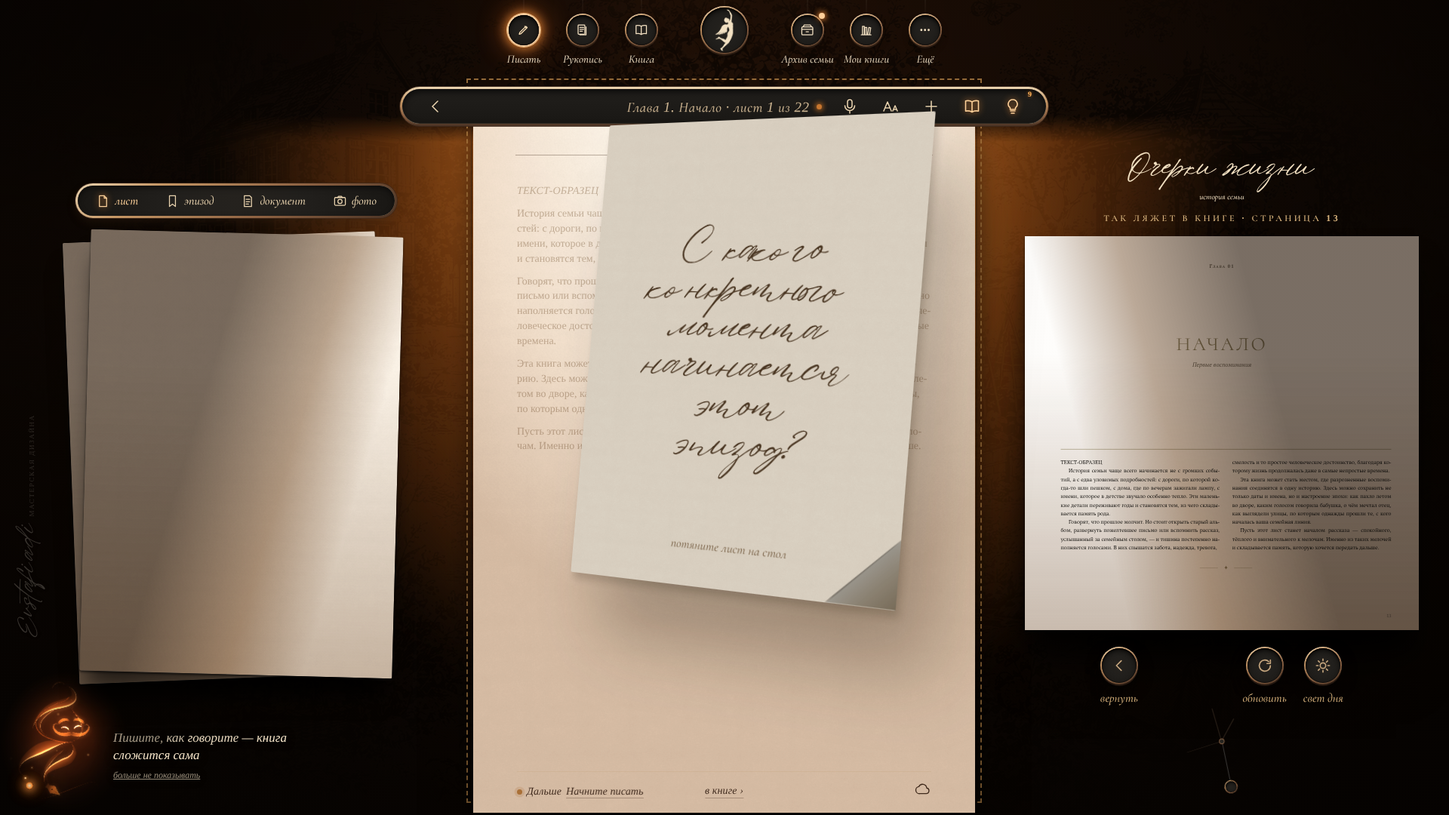
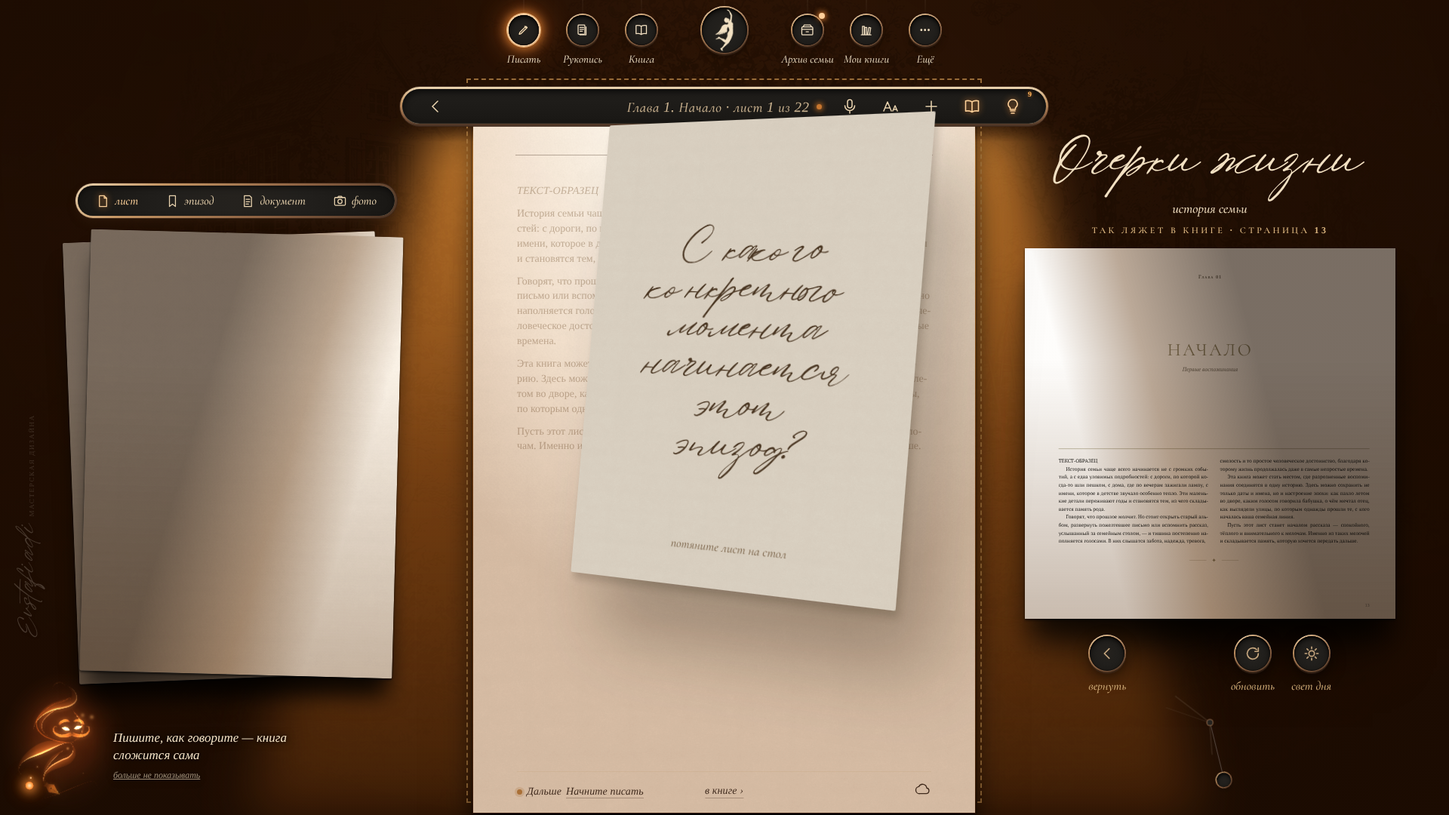
v202: уходя в книгу, стол сначала уезжает влево (а не исчезает), название книги крупное и стоит на месте, свет на книге по лучу, без уголка у листа в руке, следующий чистый лист сразу, тень окна на кладущемся листе, «Так ляжет» пересобирается в паузе
Claude-Session: https://claude.ai/code/session_01523ibQ4Bpb3TawEG9d2zYP

diff --git a/app/write/write.js b/app/write/write.js
@@ -91,7 +91,7 @@
     let H=base.height*.8,W=H*pw/ph;if(base.width+G+W>room){W=Math.max(0,room-base.width-G);H=W*ph/pw;}
     let d=(W+G)/2;
     // v119: the sheet stays where it is — the book's page comes out on its right.
-    if(shell.classList.contains('oc-w')){const r2=innerWidth-(base.left+base.width)-G-40;H=base.height*(window.__ocWsRoom?.()?.62:.8);W=H*pw/ph;if(W>r2){W=Math.max(0,r2);H=W*ph/pw;}d=0;}
+    if(shell.classList.contains('oc-w')){const r2=innerWidth-(base.left+base.width)-G-40;H=base.height*(window.__ocWsRoom?.()?.52:.8);W=H*pw/ph;if(W>r2){W=Math.max(0,r2);H=W*ph/pw;}d=0;}
     return {base,W,H,G,d,extra,ok:W>=260};}
   function place(){const g=geo();if(!g)return;const b=g.base,L=b.left-g.d+b.width+g.G;
     const css=on?`left:${L}px;top:${b.top+(b.height-g.H)/2-10}px;width:${g.W}px;height:${g.H}px`:`left:${b.left+b.width+g.extra-g.W*.7}px;top:${b.top+(b.height-g.H)/2-10}px;width:${g.W}px;height:${g.H}px`;
@@ -114,6 +114,11 @@
     if(res){host.innerHTML=res.html;shown=res.spread;pane.querySelector('.wp-cap').textContent=`так ляжет в книге${res.pageNo?' · страница '+res.pageNo:''}`;}
     else{host.innerHTML='<div class="wp-none">Этот раздел появится в книге,<br>когда в нём будет текст или фото</div>';pane.querySelector('.wp-cap').textContent='так ляжет в книге';}
     place();window.__ocherkiScalePages?.();ref.classList.remove('is-stale');stale=false;}
+  // v202: the book's page is laid out again only once the hands rest a moment (a layout in the middle of taking the next sheet
+  // made the desk stall); the picture of the old page stays meanwhile
+  let lastHand=0;['pointerdown','pointermove','keydown'].forEach(t=>addEventListener(t,()=>{lastHand=performance.now();},{passive:true,capture:true}));
+  const quietRefresh=()=>{const q=performance.now()-lastHand;if(q<1100){clearTimeout(tAuto);tAuto=setTimeout(quietRefresh,1150-q);return;}
+    (window.requestIdleCallback||(f=>setTimeout(f,0)))(()=>refresh(false),{timeout:900});};
   function refresh(first){if(!on||busy)return;busy=true;pane.classList.add('is-busy');ref.classList.remove('is-stale');stale=false;
     ref.classList.remove('is-spin');void ref.offsetWidth;ref.classList.add('is-spin');clearTimeout(refresh.s);refresh.s=setTimeout(()=>ref.classList.remove('is-spin'),950);
     setTimeout(()=>{paint();requestAnimationFrame(()=>window.__ocherkiScalePages?.());
@@ -122,11 +127,12 @@
   ref.querySelector('button').addEventListener('click',()=>{pick=null;refresh(false);});
   pg.addEventListener('click',e=>{const b=e.target.closest('[data-pg]');if(!b||b.disabled)return;pick=Math.max(0,Math.min(count-1,(pick||0)+(+b.dataset.pg)));refresh(false);});
   addEventListener('message',e=>{const d=e.data||{};
-    if(d.type==='OCHERKI_ACTIVE_STATE'&&d.payload?.pageUid){const u=d.payload.pageUid;if(u!==uid){uid=u;pick=null;if(on){clearTimeout(tAuto);tAuto=setTimeout(()=>refresh(false),450);}}}
+    if(d.type==='OCHERKI_ACTIVE_STATE'&&d.payload?.pageUid){const u=d.payload.pageUid;if(u!==uid){uid=u;pick=null;if(on){clearTimeout(tAuto);tAuto=setTimeout(quietRefresh,450);}}}
     else if(d.type==='OCHERKI_STRUCTURE_STATE'){let a='';(d.payload?.sections||[]).forEach(s=>(s.pages||[]).forEach(p=>{if(p.active)a=p.uid||p.id||'';}));
-      if(a&&a!==uid){uid=a;pick=null;if(on){clearTimeout(tAuto);tAuto=setTimeout(()=>refresh(false),450);}}
+      if(a&&a!==uid){uid=a;pick=null;if(on){clearTimeout(tAuto);tAuto=setTimeout(quietRefresh,450);}}
       else if(on&&!busy){stale=true;ref.classList.add('is-stale');}}});
   const sync=()=>{const ok=usable();shell.classList.toggle('wp-ready',ok);
+    // v202: leaving for the book the page, its keys, the book's name and the clock slide off to the left with the sheets
     if(!ok&&on){on=false;const w=wrap();if(w){w.style.setProperty('transition','none','important');w.style.translate='';void w.offsetWidth;requestAnimationFrame(()=>requestAnimationFrame(()=>w.style.removeProperty('transition')));}
       shell.classList.remove('wp-on','wp-up','wp-closing');}
     if(ok)place();};
@@ -134,6 +140,17 @@
   const modal=document.getElementById('bookPreviewModal');if(modal)new MutationObserver(sync).observe(modal,{attributes:true,attributeFilter:['class']});
   addEventListener('resize',()=>{if(on){const w=wrap(),g=geo();if(w&&g)w.style.translate=`${-g.d}px 0`;}place();requestAnimationFrame(()=>window.__ocherkiScalePages?.());});
   [1200,2600,4500].forEach(t=>setTimeout(sync,t));
+  // v202: leaving for the book the page, its keys, the book's name and the clock slide off to the left with the sheets
+  // The book is laid out in one go and holds the page for about a second: were it started at once, the move had no frames and
+  // everything seemed to vanish. So the desk is cleared first — the sheets, the page, its keys go off to the left — and only
+  // then the book is opened and slides in.
+  let leaving=false;
+  document.addEventListener('click',e=>{const k=e.target.closest?.('.oct .k[data-k="book"]');if(!k||k.__go||leaving||!shell.classList.contains('oc-ws'))return;
+    e.stopImmediatePropagation();e.preventDefault();leaving=true;
+    {const l=document.querySelector('.ws-left');if(l){l.style.animation='none';void l.offsetWidth;}}// its entrance holds no transform any more: the move starts from where it lies
+    shell.classList.add('ws-leaving','ws-off');
+    setTimeout(()=>{k.__go=true;k.click();k.__go=false;},1000);
+    setTimeout(()=>{shell.classList.remove('ws-leaving','ws-off');leaving=false;const l=document.querySelector('.ws-left');if(l)l.style.animation='';},2600);},true);
   // v195: the desk of three sheets reaches the page from outside
   window.__ocWp={open:()=>{if(!on)setOpen(true);},isOn:()=>on,geo,place,pane,keys2,usable};
 })();
@@ -209,10 +226,11 @@
       const bg=`linear-gradient(${(A*180/Math.PI).toFixed(1)}deg,rgba(240,225,200,.08) ${(t-4).toFixed(1)}%,rgba(120,84,50,.5) ${(t+14).toFixed(1)}%,rgba(46,28,12,.64) ${(t+38).toFixed(1)}%),linear-gradient(180deg,transparent 30%,rgba(110,76,46,.4) 100%)`;if(lm._bg!==bg){lm._bg=bg;lm.style.background=bg;}}}
     // v199: the book on the desk is lit by the same beam — its middle under the bar bright, both its sides beyond the beam's edges dusky
     const bq=document.querySelector('.bq-book'),bl=bq?.querySelector('.bq-lamp');
-    if(bl&&night&&bk){const q=bq.getBoundingClientRect();if(q.width){const edge=(ex,dxs)=>{let dx=dxs,dy=H*1.04-y;const l=Math.hypot(dx,dy);dx/=l;dy/=l;const nx=dxs>0?dy:-dy,ny=dxs>0?-dx:dx,A=Math.atan2(nx,-ny),
+    if(bl&&night&&bk&&!bq.classList.contains('is-curling')){const q=bq.getBoundingClientRect();if(q.width){const edge=(ex,dxs)=>{let dx=dxs,dy=H*1.04-y;const l=Math.hypot(dx,dy);dx/=l;dy/=l;const nx=dxs>0?dy:-dy,ny=dxs>0?-dx:dx,A=Math.atan2(nx,-ny),
           L=Math.abs(q.width*Math.sin(A))+Math.abs(q.height*Math.cos(A)),t=50+((ex-(q.left+q.width/2))*nx+(y-(q.top+q.height/2))*ny)/L*100;
           return `linear-gradient(${(A*180/Math.PI).toFixed(1)}deg,rgba(0,0,0,0) ${(t-6).toFixed(1)}%,rgba(110,76,44,.55) ${(t+8).toFixed(1)}%,rgba(40,24,10,.72) ${(t+26).toFixed(1)}%)`;};
-        const bg='radial-gradient(ellipse 62% 92% at 50% 0%,rgba(255,250,242,0) 0%,rgba(244,222,196,.16) 34%,rgba(222,186,152,.36) 68%,rgba(186,148,116,.56) 100%)';void edge;if(bl._bg!==bg){bl._bg=bg;bl.style.background=bg;}}}
+        const bg=edge(x1,sp)+','+edge(x0,-sp)+',radial-gradient(ellipse 62% 92% at 50% 0%,rgba(255,250,242,0) 0%,rgba(244,222,196,.12) 40%,rgba(210,172,138,.34) 100%)';// the book lit by the beam itself: the sides beyond its diagonal edges in the dusk, the foot a little dimmer
+       if(bl._bg!==bg){bl._bg=bg;bl.style.background=bg;}}}
     // v197: the clean stack on the left is lit the same way — only where the beam falls, its left edge running from the bar's
     // other end down and out (the same light as on the book's page, mirrored)
     const wl=document.querySelector('.ws-left');
@@ -505,8 +523,12 @@
     const lay=d.over||!d.moved;// a plain click lays it too: one press is enough for a hand that does not like to drag
     if(lay){const w=wrapEl().getBoundingClientRect();fl.classList.remove('ws-lift','ws-carry');fl.classList.add('ws-landing');fl.style.transformOrigin='0 0';
       // it is laid down: it flattens as it comes to rest, its corner settles, the shadow draws in — then it is the sheet itself
+      // v202: as it comes down the window's shade falls on it where it falls on the desk (no later jump when the sheet itself shows)
+      if(!shell.classList.contains('is-night')){const sx=w.width/d.r.width,sy=w.height/d.r.height,sh=document.createElement('i');sh.className='ws-land-shade';
+        Object.assign(sh.style,{left:(-w.left/sx)+'px',top:(-w.top/sy)+'px',width:(innerWidth/sx)+'px',height:(innerHeight/sy)+'px'});fl.style.overflow='hidden';fl.appendChild(sh);requestAnimationFrame(()=>sh.classList.add('on'));}
       fl.style.transform=`translate(${w.left-d.r.left}px,${w.top-d.r.top}px) perspective(1600px) rotateX(0deg) scale(${w.width/d.r.width},${w.height/d.r.height})`;fl.style.opacity='0';
-      setTimeout(()=>act(kind),260);setTimeout(()=>{fl.remove();top.classList.remove('ws-away');top.classList.add('ws-next');setTimeout(()=>top.classList.remove('ws-next'),700);},620);}
+      top.classList.remove('ws-away');top.classList.add('ws-next');setTimeout(()=>top.classList.remove('ws-next'),700);// the next clean sheet lies there at once
+      setTimeout(()=>act(kind),260);setTimeout(()=>fl.remove(),700);}
     else{fl.classList.add('ws-back');fl.style.transform='none';setTimeout(()=>{fl.remove();top.classList.remove('ws-away');},420);}};
   top.addEventListener('pointerup',finish);top.addEventListener('pointercancel',finish);
 
@@ -530,14 +552,12 @@
     Object.assign(left.style,{left:b.left+'px',top:b.top+'px',width:b.w+'px',height:b.h+'px'});left.style.setProperty('--ws-w',b.w+'px');document.documentElement.style.setProperty('--ws-bx',Math.round(b.left+b.w/2)+'px');document.documentElement.style.setProperty('--ws-by',Math.round(b.top+b.h+Math.max(26,b.h*.06))+'px');
     // the book's name above the page, the clock below its keys — the signature stays where it always is
     const t=ttl(),c=clock();
-    if(peek&&pg&&pg.width&&t){const tr={width:t.offsetWidth,height:t.offsetHeight};const bx=t.offsetLeft,by=t.offsetTop;// its place in the layout (no translate, no scale)
-      const cap=document.querySelector('.wp-cap')?.getBoundingClientRect();const capTop=cap&&cap.height?cap.top:pg.top-34;
-      // it fits between the bar and the page's caption: a little smaller when the room is short
-      const bar=document.querySelector('.wc.on')?.getBoundingClientRect();const top0=(bar?bar.bottom:0)+34;const room=capTop-10-top0;
-      // its «left» is its centre (translateX -50%); scaled about its centre's foot it keeps the centre and the foot in place
-      const ok=parseFloat(getComputedStyle(document.documentElement).getPropertyValue('--oc-k'))||1;const h0=t.offsetHeight*ok;
-      const k=Math.max(.55,Math.min(1,room/h0));t.style.scale=(ok*k).toFixed(3);t.style.transformOrigin='0 100%';
-      t.style.translate=`${Math.round(pg.left+pg.width/2-bx)}px ${Math.round(capTop-10-(by+t.offsetHeight))}px`;}
+    if(peek&&W.pane.style.width&&t){const bx=t.offsetLeft,by=t.offsetTop;// its place in the layout (no translate, no scale)
+      // v202: the book's name stands still, high under the bar, over where the page comes to rest (not riding on the page as it
+      // slides out), and in its full size
+      const px=parseFloat(W.pane.style.left)+parseFloat(W.pane.style.width)/2;const bar=document.querySelector('.wc.on')?.getBoundingClientRect();
+      const ok=parseFloat(getComputedStyle(document.documentElement).getPropertyValue("--oc-k"))||1;t.style.scale=ok.toFixed(3);t.style.transformOrigin="0 0";
+      t.style.translate=`${Math.round(px-bx)}px ${Math.round((bar?bar.bottom:150)+10-by)}px`;}
     else if(t){t.style.removeProperty('translate');t.style.removeProperty('scale');t.style.removeProperty('transform-origin');}
     if(peek&&c&&k2&&k2.height){const pv=c.querySelector('.clock-pivot');
       // measured, not reckoned: the clock is set to its new size with no move, the pivot is found, then moved by the difference

diff --git a/shell.html b/shell.html
@@ -4,16 +4,16 @@
 <meta charset="utf-8"/>
 <meta name="viewport" content="width=device-width, initial-scale=1, viewport-fit=cover"/>
 <title>Очерки жизни — unified shell + paper keyboard</title>
-<link rel="stylesheet" href="app/common/001-base.css?v=20261107-v201" data-inline-from="style">
+<link rel="stylesheet" href="app/common/001-base.css?v=20261107-v202" data-inline-from="style">
 
 
 
 
 
 
-<script src="app/common/021-calm-dom-v142.js?v=20261107-v201" data-inline-from="script"></script>
-<script src="app/start/022-v35-auth-gate-state.js?v=20261107-v201" data-inline-from="script"></script>
-<link rel="stylesheet" href="book-renderer/design-pack-01.css?v=demo-book-20261107-v201">
+<script src="app/common/021-calm-dom-v142.js?v=20261107-v202" data-inline-from="script"></script>
+<script src="app/start/022-v35-auth-gate-state.js?v=20261107-v202" data-inline-from="script"></script>
+<link rel="stylesheet" href="book-renderer/design-pack-01.css?v=demo-book-20261107-v202">
 </head>
 <body>
 <div class="shell is-night ui-boot" id="shell">
@@ -215,7 +215,7 @@
   <div class="editor-stage" id="editorStage" aria-label="Рабочая область">
     <div class="editor-paper-wrap" id="editorPaperWrap">
       <div class="editor-paper v35-host-paper">
-        <iframe id="v35SheetFrame" class="v35-sheet-frame" allow="microphone" src="sheet_v35.html?v=demo-book-20261107-v201" title="Редактор книги"></iframe>
+        <iframe id="v35SheetFrame" class="v35-sheet-frame" allow="microphone" src="sheet_v35.html?v=demo-book-20261107-v202" title="Редактор книги"></iframe>
       </div>
       <div class="editor-paper-shadow"></div>
     </div>
@@ -307,7 +307,7 @@
     </div>
   </div>
 </div>
-<script src="app/common/025-shell-core.js?v=20261107-v201" data-inline-from="script"></script>
+<script src="app/common/025-shell-core.js?v=20261107-v202" data-inline-from="script"></script>
 
 
 
@@ -324,15 +324,15 @@
 
 
 
-<script src="app/common/042-boot-and-map.js?v=20261107-v201" data-inline-from="script"></script>
+<script src="app/common/042-boot-and-map.js?v=20261107-v202" data-inline-from="script"></script>
 
 
-<script src="book-renderer/geo-cities.js?v=demo-book-20261107-v201"></script><script src="book-renderer/geo-atlas.js?v=demo-book-20261107-v201"></script><script src="book-renderer/design-pack-01.js?v=demo-book-20261107-v201"></script>
-<script src="book-renderer/book-engine.js?v=demo-book-20261107-v201"></script>
-<script src="book-renderer/project-store.js?v=demo-book-20261107-v201"></script>
-<script src="book-renderer/design-pack-01.layout.js?v=demo-book-20261107-v201"></script>
-<script src="book-renderer/layout-pagination-engine.js?v=demo-book-20261107-v201"></script>
-<script src="app/book/044-v103-book-assembly-controller.js?v=20261107-v201" data-inline-from="script"></script>
+<script src="book-renderer/geo-cities.js?v=demo-book-20261107-v202"></script><script src="book-renderer/geo-atlas.js?v=demo-book-20261107-v202"></script><script src="book-renderer/design-pack-01.js?v=demo-book-20261107-v202"></script>
+<script src="book-renderer/book-engine.js?v=demo-book-20261107-v202"></script>
+<script src="book-renderer/project-store.js?v=demo-book-20261107-v202"></script>
+<script src="book-renderer/design-pack-01.layout.js?v=demo-book-20261107-v202"></script>
+<script src="book-renderer/layout-pagination-engine.js?v=demo-book-20261107-v202"></script>
+<script src="app/book/044-v103-book-assembly-controller.js?v=20261107-v202" data-inline-from="script"></script>
 
 
 
@@ -384,7 +384,7 @@
 
 
 
-<script src="assets/archive/archive.js?v=20261107-v201"></script>
+<script src="assets/archive/archive.js?v=20261107-v202"></script>
 </body>
 
 
@@ -402,29 +402,29 @@
 
 
 
-<script src="app/common/common-early.js?v=20261107-v201"></script>
-<script src="app/manuscript/134-three-screens-script.js?v=20261107-v201" data-inline-from="script"></script>
-<script src="app/manuscript/manuscript.js?v=20261107-v201"></script>
+<script src="app/common/common-early.js?v=20261107-v202"></script>
+<script src="app/manuscript/134-three-screens-script.js?v=20261107-v202" data-inline-from="script"></script>
+<script src="app/manuscript/manuscript.js?v=20261107-v202"></script>
 
 
-<script src="app/topbar/keys.js?v=20261107-v201" data-inline-from="script"></script>
-<script src="app/book/book.js?v=20261107-v201"></script>
-<script src="app/write/write.js?v=20261107-v201"></script>
+<script src="app/topbar/keys.js?v=20261107-v202" data-inline-from="script"></script>
+<script src="app/book/book.js?v=20261107-v202"></script>
+<script src="app/write/write.js?v=20261107-v202"></script>
 
 
 
-<script src="app/common/common-late.js?v=20261107-v201"></script>
+<script src="app/common/common-late.js?v=20261107-v202"></script>
 
 
-<script src="assets/keeper/tour.js?v=20261107-v201"></script>
-<script src="app/start/start.js?v=20261107-v201"></script>
-<script src="app/topbar/topbar.js?v=20261107-v201"></script>
+<script src="assets/keeper/tour.js?v=20261107-v202"></script>
+<script src="app/start/start.js?v=20261107-v202"></script>
+<script src="app/topbar/topbar.js?v=20261107-v202"></script>
 
 
-<link rel="stylesheet" href="app/start/start.css?v=20261107-v201">
-<link rel="stylesheet" href="app/common/chrome.css?v=20261107-v201">
-<link rel="stylesheet" href="app/write/write.css?v=20261107-v201">
-<link rel="stylesheet" href="app/manuscript/manuscript.css?v=20261107-v201">
-<link rel="stylesheet" href="app/book/book.css?v=20261107-v201">
-<link rel="stylesheet" href="app/shelf/shelf.css?v=20261107-v201">
-<script src="app/shelf/shelf.js?v=20261107-v201"></script>
+<link rel="stylesheet" href="app/start/start.css?v=20261107-v202">
+<link rel="stylesheet" href="app/common/chrome.css?v=20261107-v202">
+<link rel="stylesheet" href="app/write/write.css?v=20261107-v202">
+<link rel="stylesheet" href="app/manuscript/manuscript.css?v=20261107-v202">
+<link rel="stylesheet" href="app/book/book.css?v=20261107-v202">
+<link rel="stylesheet" href="app/shelf/shelf.css?v=20261107-v202">
+<script src="app/shelf/shelf.js?v=20261107-v202"></script>

diff --git a/app/write/write.css b/app/write/write.css
@@ -801,12 +801,8 @@ html:has(.shell.is-night) .ws-left .ws-tabs button.on{color:#ffd29a}html:has(.sh
 .ws-flyer.ws-lift{transition:transform .28s cubic-bezier(.2,.8,.3,1),box-shadow .28s ease;box-shadow:2px 4px 6px rgba(40,25,10,.25),30px 40px 60px rgba(40,25,10,.32)!important}
 .ws-flyer.ws-carry{transition:transform .12s linear,box-shadow .3s ease;box-shadow:4px 8px 10px rgba(40,25,10,.18),46px 70px 90px rgba(40,25,10,.30)!important}
 .ws-flyer.ws-landing{transition:transform .62s cubic-bezier(.3,.7,.2,1),opacity .3s ease .38s,box-shadow .5s ease!important;box-shadow:1px 2px 3px rgba(40,25,10,.3),8px 12px 20px rgba(40,25,10,.22)!important}
-/* the corner the hand holds lifts a little */
-.ws-flyer::after{content:"";position:absolute;right:0;bottom:0;width:20%;height:14%;pointer-events:none;
-  background:linear-gradient(135deg,transparent 48%,rgba(80,55,30,.18) 50%,rgba(255,252,244,.95) 52%,rgba(232,218,196,1) 72%,rgba(200,180,150,1) 100%);
-  clip-path:polygon(100% 0,100% 100%,0 100%);filter:drop-shadow(-3px -3px 4px rgba(60,40,20,.25));transition:opacity .25s}
-.ws-flyer.ws-landing::after,.ws-flyer.ws-back::after{opacity:0}
-html:has(.shell.is-night) .ws-flyer::after{filter:drop-shadow(-3px -3px 4px rgba(0,0,0,.5)) brightness(.7)}
+/* v202: no turned-up corner on the sheet in the hand */
+.ws-flyer::after{content:none!important}
 html:has(.shell.is-night) .ws-flyer{filter:brightness(.82) sepia(.15)}
 .ws-flyer .ws-q{max-height:none!important;overflow:visible!important}
 .ws-flyer.ws-landing .ws-q,.ws-flyer.ws-landing .ws-hint{opacity:0!important;transition:opacity .18s ease!important}
@@ -872,3 +868,19 @@ html:has(#bookPreviewModal.is-closing) .bq-book{opacity:1!important}
 html body .desk-cone{filter:blur(34px)}
 html body .desk-cone i{background:linear-gradient(180deg,rgba(255,175,80,.95) 0%,rgba(250,150,55,.7) 22%,rgba(225,120,35,.42) 58%,rgba(180,90,20,.22) 100%)!important}
 html body .desk-shade{background:linear-gradient(rgba(60,26,4,.42),rgba(60,26,4,.42)),radial-gradient(ellipse 75% 95% at 50% 20%,rgba(10,5,2,0) 0%,rgba(10,5,2,.3) 55%,rgba(5,2,0,.8) 100%)}
+.ws-land-shade{position:absolute;z-index:6;pointer-events:none;background:var(--ws-shade) 0 0/100% 100% no-repeat;mix-blend-mode:multiply;opacity:0;transition:opacity .45s ease .1s}
+.ws-land-shade.on{opacity:1}
+.ws-flyer.ws-landing{transition:transform .62s cubic-bezier(.3,.7,.2,1),opacity .25s ease .55s,box-shadow .5s ease!important}
+/* v202 — leaving for «Книга»: what stood on the right of the desk slides away to the left with the sheets, nothing just vanishes */
+@keyframes wsLeave{from{translate:0 0;rotate:0deg;opacity:1}to{translate:-125vw 0;rotate:-2.5deg;opacity:1}}
+html body .shell.ws-leaving .wp-pane{opacity:1!important;transform:none!important;transition:none!important;animation:wsLeave 1.3s cubic-bezier(.62,.02,.32,1) both}
+html body .shell.ws-leaving .wp-keys.k-open,html body .shell.ws-leaving .bottom-left .master-clock{opacity:1!important;animation:wsLeave 1.3s cubic-bezier(.62,.02,.32,1) both}
+html body .shell.ws-leaving~.oc-ttl{opacity:1!important;animation:wsLeave 1.3s cubic-bezier(.62,.02,.32,1) both}
+html body .shell.ws-leaving~.ws-left,html:has(.shell.ws-leaving) .ws-left{opacity:1!important}
+/* v202: the sheets themselves go off before the book is opened (the same motion as when the book comes) */
+html body .shell.is-open.ws-off:not(.is-book-preview) #editorPaperWrap,html body .shell.ws-off .editor-paper-wrap{transform:translateX(calc(-100vw - 180px)) rotate(-3deg)!important;transition:transform 1.1s cubic-bezier(.62,.02,.32,1)!important}
+html:has(.shell.ws-off) .ws-left{transform-origin:0 50%!important;transform:translateX(calc(-100% + 90px)) rotate(-2.5deg) scale(.82)!important;transition:transform 1.05s cubic-bezier(.62,.02,.32,1)!important;animation:none!important}
+html body .shell.ws-off .writing-prompt,html body .shell.ws-off .write-nav{opacity:0!important;transition:opacity .4s ease!important}
+/* v202: the light layers are kept on their own layers, so a leaf turning under them is not repainted with them each frame */
+.bq-book .bq-lamp,.desk-cone,.desk-day,.desk-shade{will-change:opacity;contain:strict}
+.bq-book.is-curling .bq-lamp{transition:none!important}

diff --git a/test-mode.html b/test-mode.html
@@ -1,7 +1,7 @@
 <!doctype html><html lang="ru"><head>
 <meta charset="utf-8"><meta name="viewport" content="width=device-width,initial-scale=1,viewport-fit=cover">
 <title>Очерки жизни — проверка разворотов</title>
-<link rel="stylesheet" href="book-renderer/fonts.css?v=demo-book-20261107-v201"><link rel="stylesheet" href="book-renderer/design-pack-01.css?v=demo-book-20261107-v201"><link rel="stylesheet" href="test-mode.css?v=demo-book-20261107-v201">
+<link rel="stylesheet" href="book-renderer/fonts.css?v=demo-book-20261107-v202"><link rel="stylesheet" href="book-renderer/design-pack-01.css?v=demo-book-20261107-v202"><link rel="stylesheet" href="test-mode.css?v=demo-book-20261107-v202">
 </head><body>
 <main id="viewer" class="tm-viewer" aria-label="Книжные развороты"><p id="empty" class="tm-empty">Добавьте текст или фотографии для проверки. Можно также открыть сохранённую копию проекта.</p><div id="stage" class="tm-stage" hidden><div id="canvas" class="tm-canvas"></div></div></main>
 <section id="editorProbe" class="tm-editor-probe" hidden aria-label="Диагностика редакторского переноса"><header><strong>T1–T2 · Редактируемый лист</strong><button id="closeEditorProbe" aria-label="Закрыть диагностику">×</button></header><div id="editorProbeText" class="tm-editor-probe-text" lang="ru" contenteditable="true" spellcheck="true"></div><pre id="editorProbeReport"></pre></section>
@@ -24,5 +24,5 @@
 <details class="tm-source"><summary>Сохранённая копия проекта</summary><p id="sourceInfo">Копия не открыта. Несохранённые изменения редактора сюда не передаются.</p><label>Открыть JSON-файл<input id="projectFile" type="file" accept=".json,application/json"></label><button id="downloadSource" disabled>Скачать копию для телефона</button></details>
 <button type="button" id="sheetApply" class="tm-primary">Применить</button>
 </dialog>
-<script src="book-renderer/editor-source-bridge.js?v=demo-book-20261107-v201"></script><script src="book-renderer/geo-cities.js?v=demo-book-20261107-v201"></script><script src="book-renderer/geo-atlas.js?v=demo-book-20261107-v201"></script><script src="book-renderer/design-pack-01.js?v=demo-book-20261107-v201"></script><script src="book-renderer/design-pack-01.layout.js?v=demo-book-20261107-v201"></script><script src="book-renderer/layout-pagination-engine.js?v=demo-book-20261107-v201"></script><script src="test-mode-state.js?v=demo-book-20261107-v201"></script><script src="test-mode.js?v=demo-book-20261107-v201"></script>
+<script src="book-renderer/editor-source-bridge.js?v=demo-book-20261107-v202"></script><script src="book-renderer/geo-cities.js?v=demo-book-20261107-v202"></script><script src="book-renderer/geo-atlas.js?v=demo-book-20261107-v202"></script><script src="book-renderer/design-pack-01.js?v=demo-book-20261107-v202"></script><script src="book-renderer/design-pack-01.layout.js?v=demo-book-20261107-v202"></script><script src="book-renderer/layout-pagination-engine.js?v=demo-book-20261107-v202"></script><script src="test-mode-state.js?v=demo-book-20261107-v202"></script><script src="test-mode.js?v=demo-book-20261107-v202"></script>
 </body></html>

diff --git a/index.html b/index.html
@@ -10,11 +10,11 @@
 <link rel="preload" as="script" href="assets/vendor/three/three.min.js">
 <link rel="preload" as="script" href="assets/vendor/three/EffectComposer.js">
 <link rel="preload" as="script" href="assets/vendor/three/UnrealBloomPass.js">
-<link rel="preload" as="script" href="assets/keeper/keeper3d.js?v=20261107-v201">
-<link rel="preload" as="script" href="assets/keeper/desk.js?v=20261107-v201">
+<link rel="preload" as="script" href="assets/keeper/keeper3d.js?v=20261107-v202">
+<link rel="preload" as="script" href="assets/keeper/desk.js?v=20261107-v202">
 <link rel="preload" as="image" href="assets/keeper/desk-paper.jpg">
 
-  <link rel="stylesheet" href="app/startpage/start-page.css?v=20261107-v201" data-inline-from="style">
+  <link rel="stylesheet" href="app/startpage/start-page.css?v=20261107-v202" data-inline-from="style">
 
 
 
@@ -278,7 +278,7 @@
     <iframe class="constructor-shell-frame" id="constructorShellFrame" allow="microphone" title="Конструктор книги" src="about:blank"></iframe>
   </div>
 
-  <script src="app/startpage/start-page.js?v=20261107-v201" data-inline-from="script"></script>
+  <script src="app/startpage/start-page.js?v=20261107-v202" data-inline-from="script"></script>
 
 
 
@@ -293,9 +293,9 @@
 
 
 
-<script src="book-renderer/project-store.js?v=demo-book-20261107-v201"></script>
-<link rel="stylesheet" href="app/shelf/shelf.css?v=20261107-v201">
-<script src="app/shelf/shelf.js?v=20261107-v201"></script>
+<script src="book-renderer/project-store.js?v=demo-book-20261107-v202"></script>
+<link rel="stylesheet" href="app/shelf/shelf.css?v=20261107-v202">
+<script src="app/shelf/shelf.js?v=20261107-v202"></script>
 
 
 <div class="kob" id="kob" aria-label="Вход в «Очерки жизни»"><div class="knight"><div class="night-base"></div><div class="night-artwork"></div><div class="night-main"></div><div class="night-warm"></div><div class="night-shadow"></div><div class="night-artwork-ink"></div><div class="night-vignette"></div></div><canvas></canvas><button type="button" class="kmus" id="kobMusic" aria-label="Музыка"><svg viewBox="0 0 24 24"><path d="M9 18V6l10-2v12"/><circle cx="6.5" cy="18" r="2.5"/><circle cx="16.5" cy="16" r="2.5"/></svg></button>
@@ -328,7 +328,7 @@
     <div class="acts"><button class="btn ghost" data-go="how">Назад</button><button class="btn main" data-go="finish" data-need="book">Создать книгу</button></div></section>
   <div class="dots"><i></i><i></i><i></i></div>
 </div>
-<script src="assets/keeper/tour.js?v=20261107-v201"></script>
-<script src="app/startpage/keeper-intro.js?v=20261107-v201" data-inline-from="script"></script>
+<script src="assets/keeper/tour.js?v=20261107-v202"></script>
+<script src="app/startpage/keeper-intro.js?v=20261107-v202" data-inline-from="script"></script>
 </body>
 </html>

diff --git a/app/startpage/keeper-intro.js b/app/startpage/keeper-intro.js
@@ -76,7 +76,7 @@
     const cover=id=>COVERS[[...String(id)].reduce((h,c)=>(h*31+c.charCodeAt(0))>>>0,7)%COVERS.length];
     box.innerHTML=rows.map(r=>`<div class="row">${r.map((b,k)=>`<div class="bk" data-id="${esc(b.id)}" style="--tilt:${[-1.2,.9,-.5][k]}deg">
         ${(()=>{const cv=cover(b.id);return `<div class="tag"><strong>${esc(b.title||'Книга без названия')}</strong><span>сохранена ${esc(when(b.savedAt)||'—')}${b.pages?` · ${b.pages} стр.`:''}</span></div>
-        <div class="cov" data-go="open" data-id="${esc(b.id)}" style="--ar:${cv.ar};--fx:${cv.fx}%;--fw:${cv.fw}%;${cv.dark?'--ink:linear-gradient(180deg,#6b4a22,#3e2a12 60%,#7a5428);--ink2:#7a5428;--sh:rgba(255,240,210,.5);':''}--fs:${(()=>{const t=String(b.title||''),w=Math.max(...t.split(/\s+/).map(x=>x.length),1);return Math.max(12,Math.min(24,Math.floor(100/(w*.7)),t.length>26?17:24));})()}px"><img src="assets/keeper/cover-${cv.n}.webp?v=20261107-v201" alt=""><div class="face"><b>книга</b><strong>${esc(b.title||'Книга без названия')}</strong></div></div>`;})()}
+        <div class="cov" data-go="open" data-id="${esc(b.id)}" style="--ar:${cv.ar};--fx:${cv.fx}%;--fw:${cv.fw}%;${cv.dark?'--ink:linear-gradient(180deg,#6b4a22,#3e2a12 60%,#7a5428);--ink2:#7a5428;--sh:rgba(255,240,210,.5);':''}--fs:${(()=>{const t=String(b.title||''),w=Math.max(...t.split(/\s+/).map(x=>x.length),1);return Math.max(12,Math.min(24,Math.floor(100/(w*.7)),t.length>26?17:24));})()}px"><img src="assets/keeper/cover-${cv.n}.webp?v=20261107-v202" alt=""><div class="face"><b>книга</b><strong>${esc(b.title||'Книга без названия')}</strong></div></div>`;})()}
         <div class="ops"><button type="button" class="op" data-go="open" data-id="${esc(b.id)}">Открыть</button><button type="button" class="op del" data-del="${esc(b.id)}">Удалить</button></div>
         <div class="ask"><span>Удалить «${esc(b.title||'книгу')}» навсегда?</span><button type="button" class="op del" data-del-yes="${esc(b.id)}">Удалить</button><button type="button" class="op" data-del-no>Оставить</button></div></div>`).join('')}</div>`).join('');}
   $('kobShelf').addEventListener('click',async e=>{const d=e.target.closest('[data-del]');if(d){e.stopPropagation();d.closest('.bk')?.classList.add('asking');return;}

diff --git a/app/book/044-v103-book-assembly-controller.js b/app/book/044-v103-book-assembly-controller.js
@@ -2933,7 +2933,7 @@
     const sheetWidth=spreadMode?size[0]*2:size[0];
     // Page mode keeps the canonical rule: @page{size:${size[0]}mm ${size[1]}mm;margin:0}
     const [,pageHeight]=currentPageSize();
-    return `<!doctype html><html lang="ru"><head><meta charset="utf-8"><base href="../"><link rel="stylesheet" href="book-renderer/fonts.css"><link rel="stylesheet" href="book-renderer/design-pack-01.css?v=demo-book-20261107-v201"><style>:root{--book-page-w:1000px;--book-page-h:${pageHeight}px}@page{size:${sheetWidth}mm ${size[1]}mm;margin:0}html,body{margin:0;background:#fff}.book-print-sheet{position:relative;width:${sheetWidth}mm;height:${size[1]}mm;overflow:hidden;break-after:page;page-break-after:always}.book-print-sheet:last-child{break-after:auto}.spread-sheet{display:grid;grid-template-columns:1fr 1fr}.spread-cell{position:relative;width:${size[0]}mm;height:${size[1]}mm;overflow:hidden}.dpk-page{position:absolute!important;left:0;top:0;transform-origin:0 0;transform:scale(${printScale});}</style></head><body class="book-format-${activeFormat}">${sheets}<style id="v77-cover-in-place">
+    return `<!doctype html><html lang="ru"><head><meta charset="utf-8"><base href="../"><link rel="stylesheet" href="book-renderer/fonts.css"><link rel="stylesheet" href="book-renderer/design-pack-01.css?v=demo-book-20261107-v202"><style>:root{--book-page-w:1000px;--book-page-h:${pageHeight}px}@page{size:${sheetWidth}mm ${size[1]}mm;margin:0}html,body{margin:0;background:#fff}.book-print-sheet{position:relative;width:${sheetWidth}mm;height:${size[1]}mm;overflow:hidden;break-after:page;page-break-after:always}.book-print-sheet:last-child{break-after:auto}.spread-sheet{display:grid;grid-template-columns:1fr 1fr}.spread-cell{position:relative;width:${size[0]}mm;height:${size[1]}mm;overflow:hidden}.dpk-page{position:absolute!important;left:0;top:0;transform-origin:0 0;transform:scale(${printScale});}</style></head><body class="book-format-${activeFormat}">${sheets}<style id="v77-cover-in-place">
 .book-preview-spread.is-cover::after,.book-preview-spread.is-cover::before{display:none!important}
 .book-preview-spread>.book-preview-half.is-ghost{visibility:hidden!important;background:none!important;box-shadow:none!important;pointer-events:none}
 </style>

diff --git a/test-mode-runner.html b/test-mode-runner.html
@@ -1,3 +1,3 @@
-<!doctype html><html lang="ru"><head><meta charset="utf-8"><meta name="viewport" content="width=device-width,initial-scale=1"><link rel="stylesheet" href="book-renderer/fonts.css?v=demo-book-20261107-v201"><link rel="stylesheet" href="book-renderer/design-pack-01.css?v=demo-book-20261107-v201"></head><body>
-<script src="book-renderer/geo-cities.js?v=demo-book-20261107-v201"></script><script src="book-renderer/geo-atlas.js?v=demo-book-20261107-v201"></script><script src="book-renderer/design-pack-01.js?v=demo-book-20261107-v201"></script><script src="book-renderer/book-engine.js?v=demo-book-20261107-v201"></script><script src="book-renderer/design-pack-01.layout.js?v=demo-book-20261107-v201"></script><script src="book-renderer/layout-pagination-engine.js?v=demo-book-20261107-v201"></script><script src="test-mode-runner.js?v=demo-book-20261107-v201"></script>
+<!doctype html><html lang="ru"><head><meta charset="utf-8"><meta name="viewport" content="width=device-width,initial-scale=1"><link rel="stylesheet" href="book-renderer/fonts.css?v=demo-book-20261107-v202"><link rel="stylesheet" href="book-renderer/design-pack-01.css?v=demo-book-20261107-v202"></head><body>
+<script src="book-renderer/geo-cities.js?v=demo-book-20261107-v202"></script><script src="book-renderer/geo-atlas.js?v=demo-book-20261107-v202"></script><script src="book-renderer/design-pack-01.js?v=demo-book-20261107-v202"></script><script src="book-renderer/book-engine.js?v=demo-book-20261107-v202"></script><script src="book-renderer/design-pack-01.layout.js?v=demo-book-20261107-v202"></script><script src="book-renderer/layout-pagination-engine.js?v=demo-book-20261107-v202"></script><script src="test-mode-runner.js?v=demo-book-20261107-v202"></script>
 </body></html>

diff --git a/qa/v45_expected_margin_validation_test.js b/qa/v45_expected_margin_validation_test.js
@@ -5,7 +5,7 @@ assert(testMode.includes('let overflowError=null;'),'acceptance does not isolate
 assert(testMode.includes('catch(error){overflowError=error;}'),'expected manual-margin validation still aborts acceptance');
 assert(testMode.includes("T9:{status:overflowError?.message==='Заметка на поле не помещается в две строки. Сократите её и пересоберите книгу.'"),'T9 no longer verifies the expected validation result');
 assert(!testMode.includes('overflowView.layout.warnings'),'acceptance still reads a result that cannot exist for a blocking manual validation');
-assert(testMode.includes("test-mode-runner.html?v=demo-book-20261107-v201"),'runner cache is not refreshed');
-assert(html.includes('demo-book-20261107-v201'),'test mode cache is not refreshed');
+assert(testMode.includes("test-mode-runner.html?v=demo-book-20261107-v202"),'runner cache is not refreshed');
+assert(html.includes('demo-book-20261107-v202'),'test mode cache is not refreshed');
 assert.equal(JSON.parse(read('book-renderer/design-pack-01.manifest.json')).version,'1.16.0-stable-important-reflow');
 console.log(JSON.stringify({status:'pass',expectedManualMarginError:'isolated',acceptanceContinues:true,renderer:'unchanged-v23'}));

diff --git a/qa/v43_visible_editorial_runtime_test.js b/qa/v43_visible_editorial_runtime_test.js
@@ -48,6 +48,6 @@ assert(!source.includes("fallback:'source-kept-in-prose'"),'automatic accent sti
 // An unplaceable automatic accent no longer stops the whole book; it is
 // recorded explicitly so the author can see which page lost it.
 assert(source.includes("code:'ACCENT_AUTO_UNPLACED'")&&source.includes("fallback:'plain-text-page'"),'automatic accent fallback is not recorded');
-for(const file of ['index.html','shell.html','test-mode-runner.html'])assert(read(file).includes('demo-book-20261107-v201'),`${file} has a stale cache key`);
-assert(read('test-mode.html').includes('demo-book-20261107-v201'),'test-mode.html has a stale cache key');
+for(const file of ['index.html','shell.html','test-mode-runner.html'])assert(read(file).includes('demo-book-20261107-v202'),`${file} has a stale cache key`);
+assert(read('test-mode.html').includes('demo-book-20261107-v202'),'test-mode.html has a stale cache key');
 console.log(JSON.stringify({status:'pass',rhythm:body.map(page=>page.rhythm),noBlankPostOpening:true,automaticRetries:[...attempts.values()].some(value=>value>1),sourceInvariant:'exact'}));

diff --git a/test-mode.js b/test-mode.js
@@ -9,7 +9,7 @@
       request={id:++serial,structure,meta,resolve,reject};
       runner=document.createElement('iframe');runner.className='tm-runner';runner.title='Раскладка материала';runner.setAttribute('aria-hidden','true');runner.tabIndex=-1;
       const [w,h]=engine.FORMATS[meta.format||'square'];runner.width=String(w);runner.height=String(h);
-      if(standaloneRunner)runner.srcdoc=standaloneRunner;else runner.src='test-mode-runner.html?v=demo-book-20261107-v201';
+      if(standaloneRunner)runner.srcdoc=standaloneRunner;else runner.src='test-mode-runner.html?v=demo-book-20261107-v202';
       document.body.appendChild(runner);
       startupTimer=setTimeout(()=>{if(request){const pending=request;request=null;pending.reject(Error('Не удалось загрузить модуль раскладки. Проверьте, что сервер запущен и архив распакован целиком.'));runner?.remove();runner=null;}},15000);
     });

diff --git a/sheet_v35.html b/sheet_v35.html
@@ -8,7 +8,7 @@
 <script src="book-renderer/project-store.js"></script>
 <script src="book-renderer/tree-editor.js"></script>
 <script src="book-renderer/people-marker.js"></script>
-<link rel="stylesheet" href="app/sheet/sheet.css?v=20261107-v201" data-inline-from="style">
+<link rel="stylesheet" href="app/sheet/sheet.css?v=20261107-v202" data-inline-from="style">
 
 </head>
 <body>
@@ -98,7 +98,7 @@
 <input id="photoInput" type="file" accept="image/*" multiple hidden>
 <input id="photoReplaceInput" type="file" accept="image/*" hidden>
 
-<script src="app/sheet/sheet.js?v=20261107-v201" data-inline-from="script"></script>
+<script src="app/sheet/sheet.js?v=20261107-v202" data-inline-from="script"></script>
 </body>
 </html>
 
